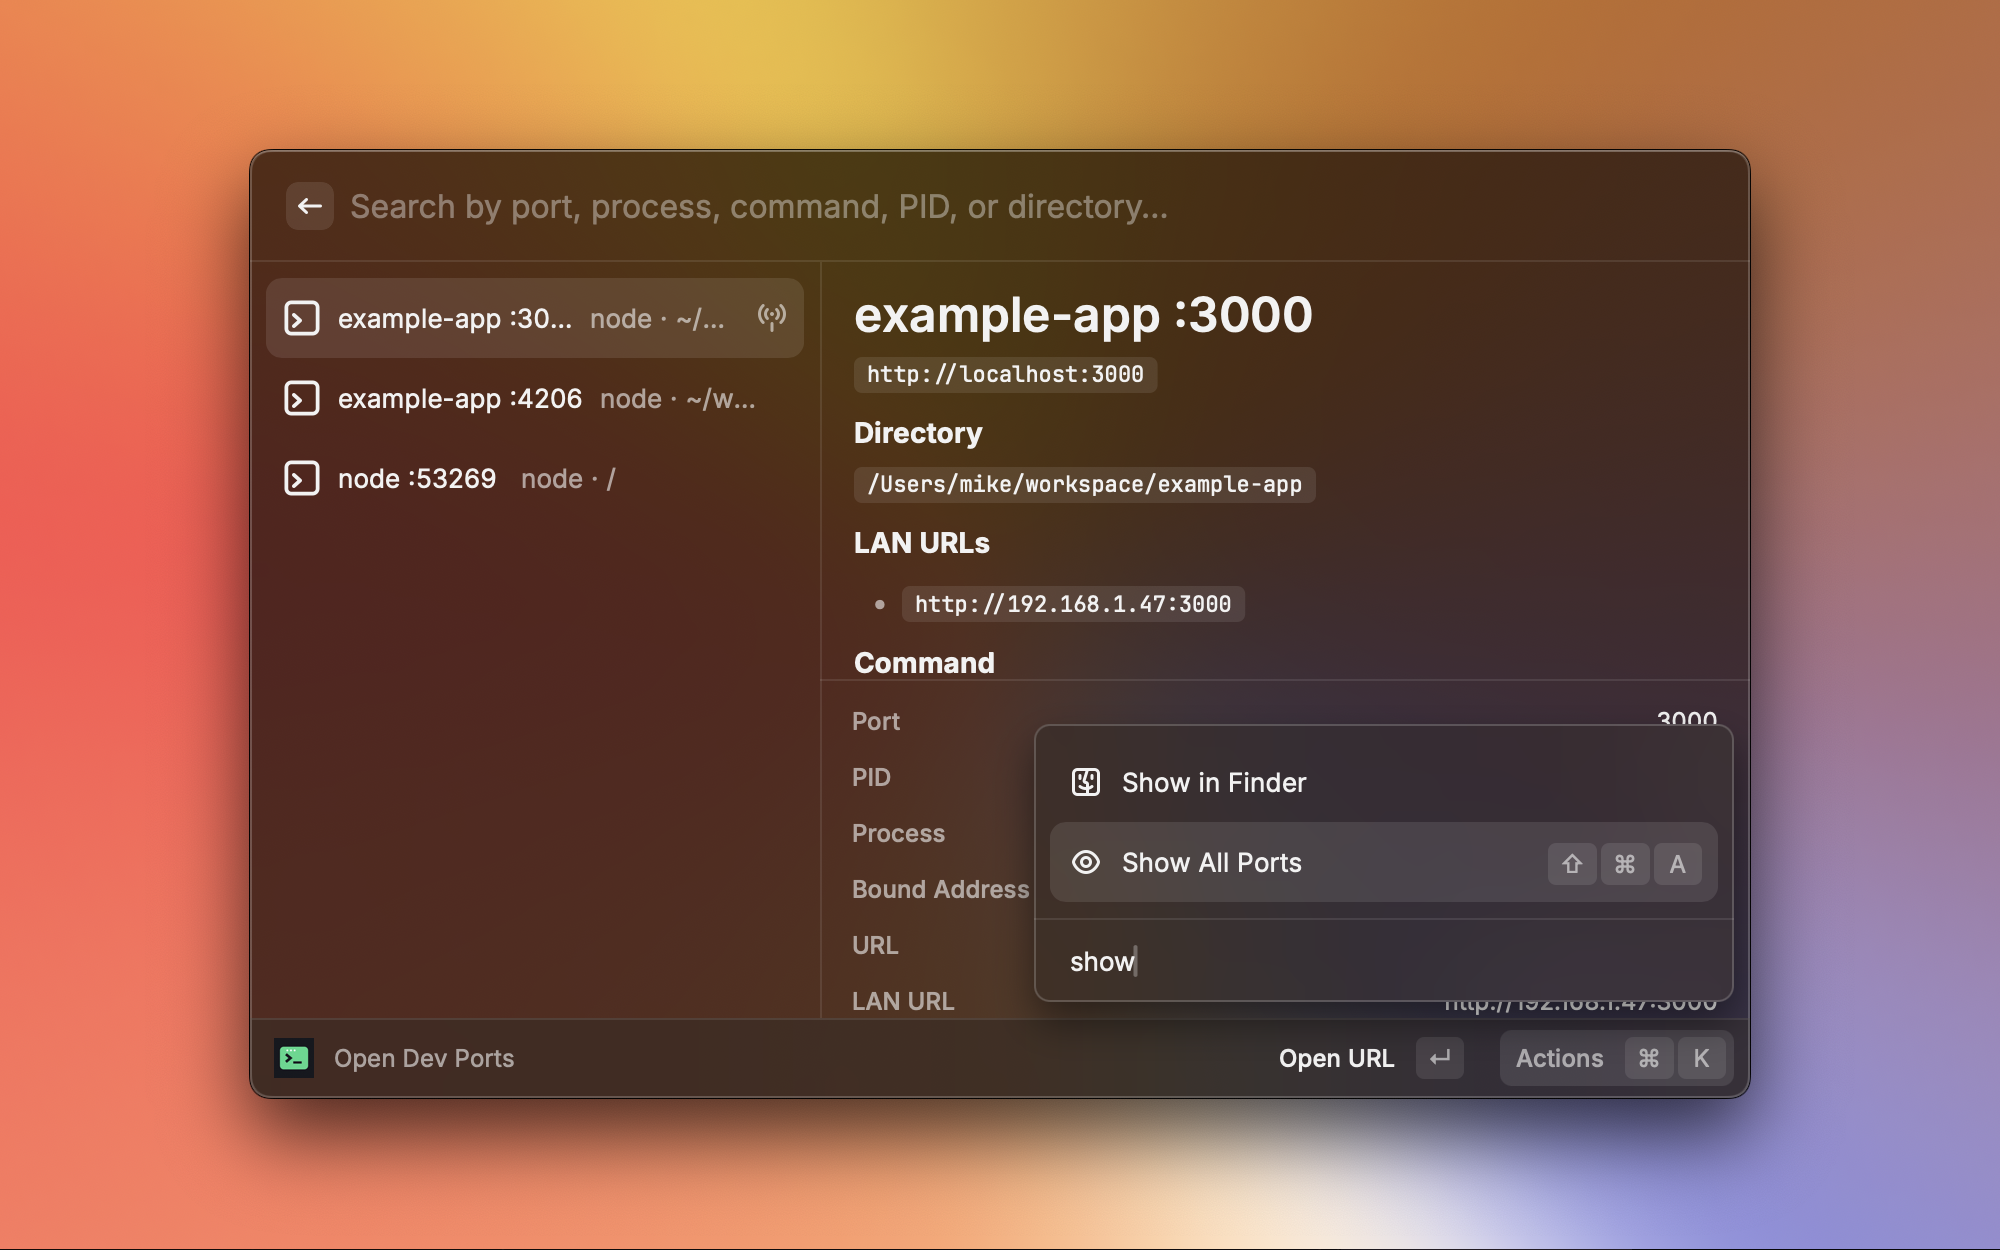
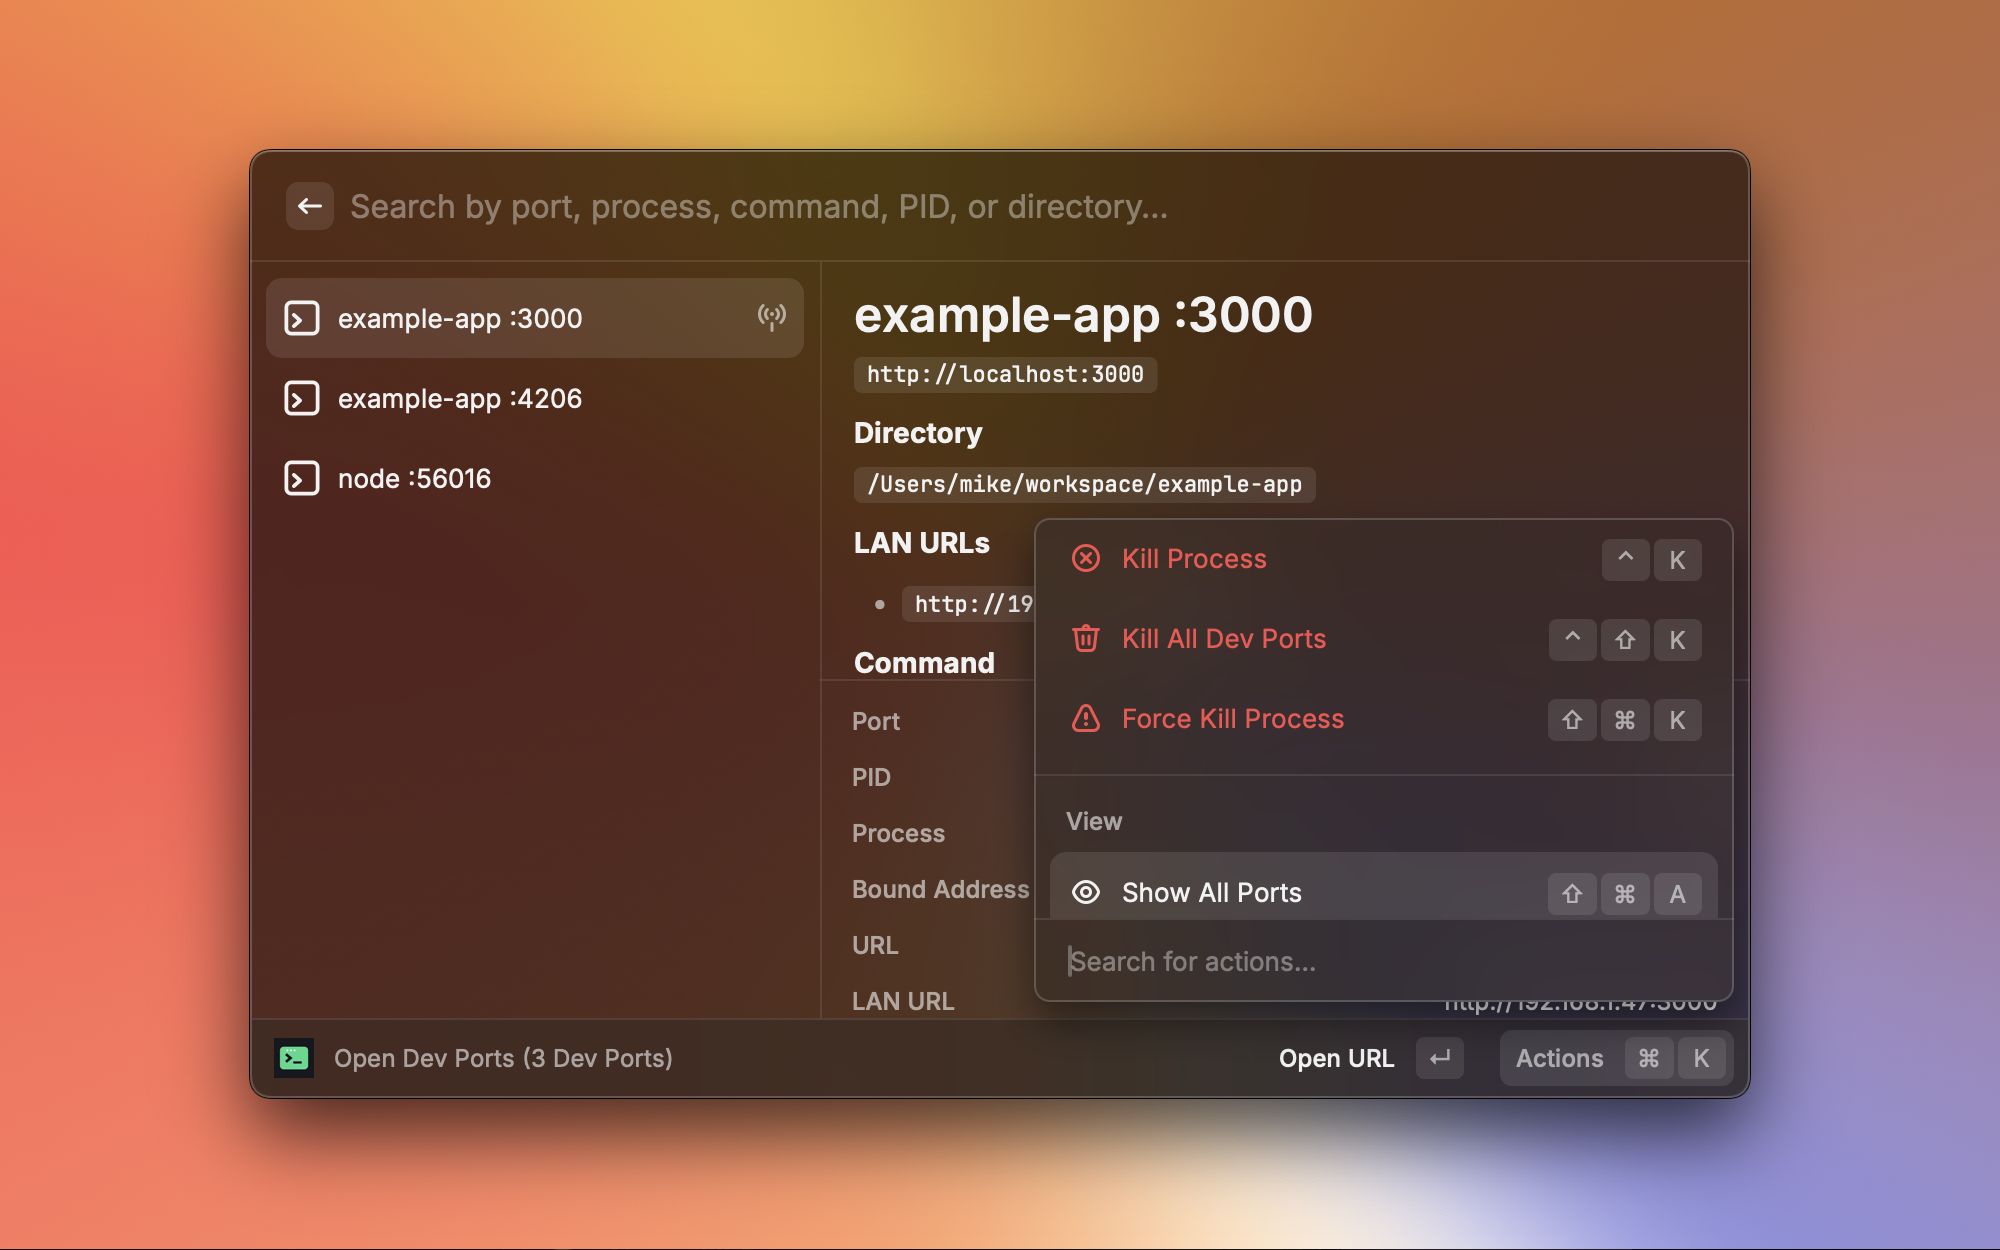
feat: refine port list presentation

diff --git a/src/open-dev-ports.tsx b/src/open-dev-ports.tsx
@@ -16,7 +16,6 @@ import {
 } from "@raycast/api";
 import { usePromise } from "@raycast/utils";
 import { useEffect, useMemo, useState } from "react";
-import path from "node:path";
 
 import { formatBytes, formatPercent, truncateCommand } from "./lib/format";
 import { getProcessCwds, getProcessStats, killProcess } from "./lib/processes";
@@ -38,6 +37,9 @@ export default function Command() {
     [ports, showAllPorts],
   );
   const devPorts = useMemo(() => ports.filter((port) => port.isDevServer), [ports]);
+  const navigationTitle = showAllPorts
+    ? `Open Dev Ports (${ports.length} ${ports.length === 1 ? "Port" : "Ports"})`
+    : `Open Dev Ports (${devPorts.length} ${devPorts.length === 1 ? "Dev Port" : "Dev Ports"})`;
 
   useEffect(() => {
     const interval = setInterval(() => {
@@ -63,6 +65,7 @@ export default function Command() {
     <List
       isLoading={isLoading}
       isShowingDetail={showDetails}
+      navigationTitle={navigationTitle}
       searchBarPlaceholder="Search by port, process, command, PID, or directory"
     >
       <List.EmptyView
@@ -124,9 +127,8 @@ function PortListItem({
 
   return (
     <List.Item
-      icon={port.isDevServer ? Icon.Terminal : Icon.Network}
+      icon={port.isDevServer ? Icon.Terminal : Icon.Circle}
       title={`${port.displayName} :${port.port}`}
-      subtitle={getPortSubtitle(port)}
       keywords={[
         String(port.port),
         String(port.pid),
@@ -320,32 +322,6 @@ function PortDetail({ port }: { port: PortProcess }) {
       }
     />
   );
-}
-
-function getPortSubtitle(port: PortProcess): string {
-  const directory = formatDirectory(port.cwd);
-
-  if (directory) {
-    return `${port.processName} · ${directory}`;
-  }
-
-  return port.processName;
-}
-
-function formatDirectory(directory?: string): string | undefined {
-  if (!directory) {
-    return undefined;
-  }
-
-  const home = process.env.HOME;
-  const normalized = home && directory.startsWith(home) ? `~${directory.slice(home.length)}` : directory;
-  const parts = normalized.split(path.sep).filter(Boolean);
-
-  if (parts.length <= 3) {
-    return normalized;
-  }
-
-  return `${parts[0]}/${parts[1]}/.../${parts[parts.length - 1]}`;
 }
 
 async function openPortUrl(port: PortProcess, preferences: CommandPreferences) {